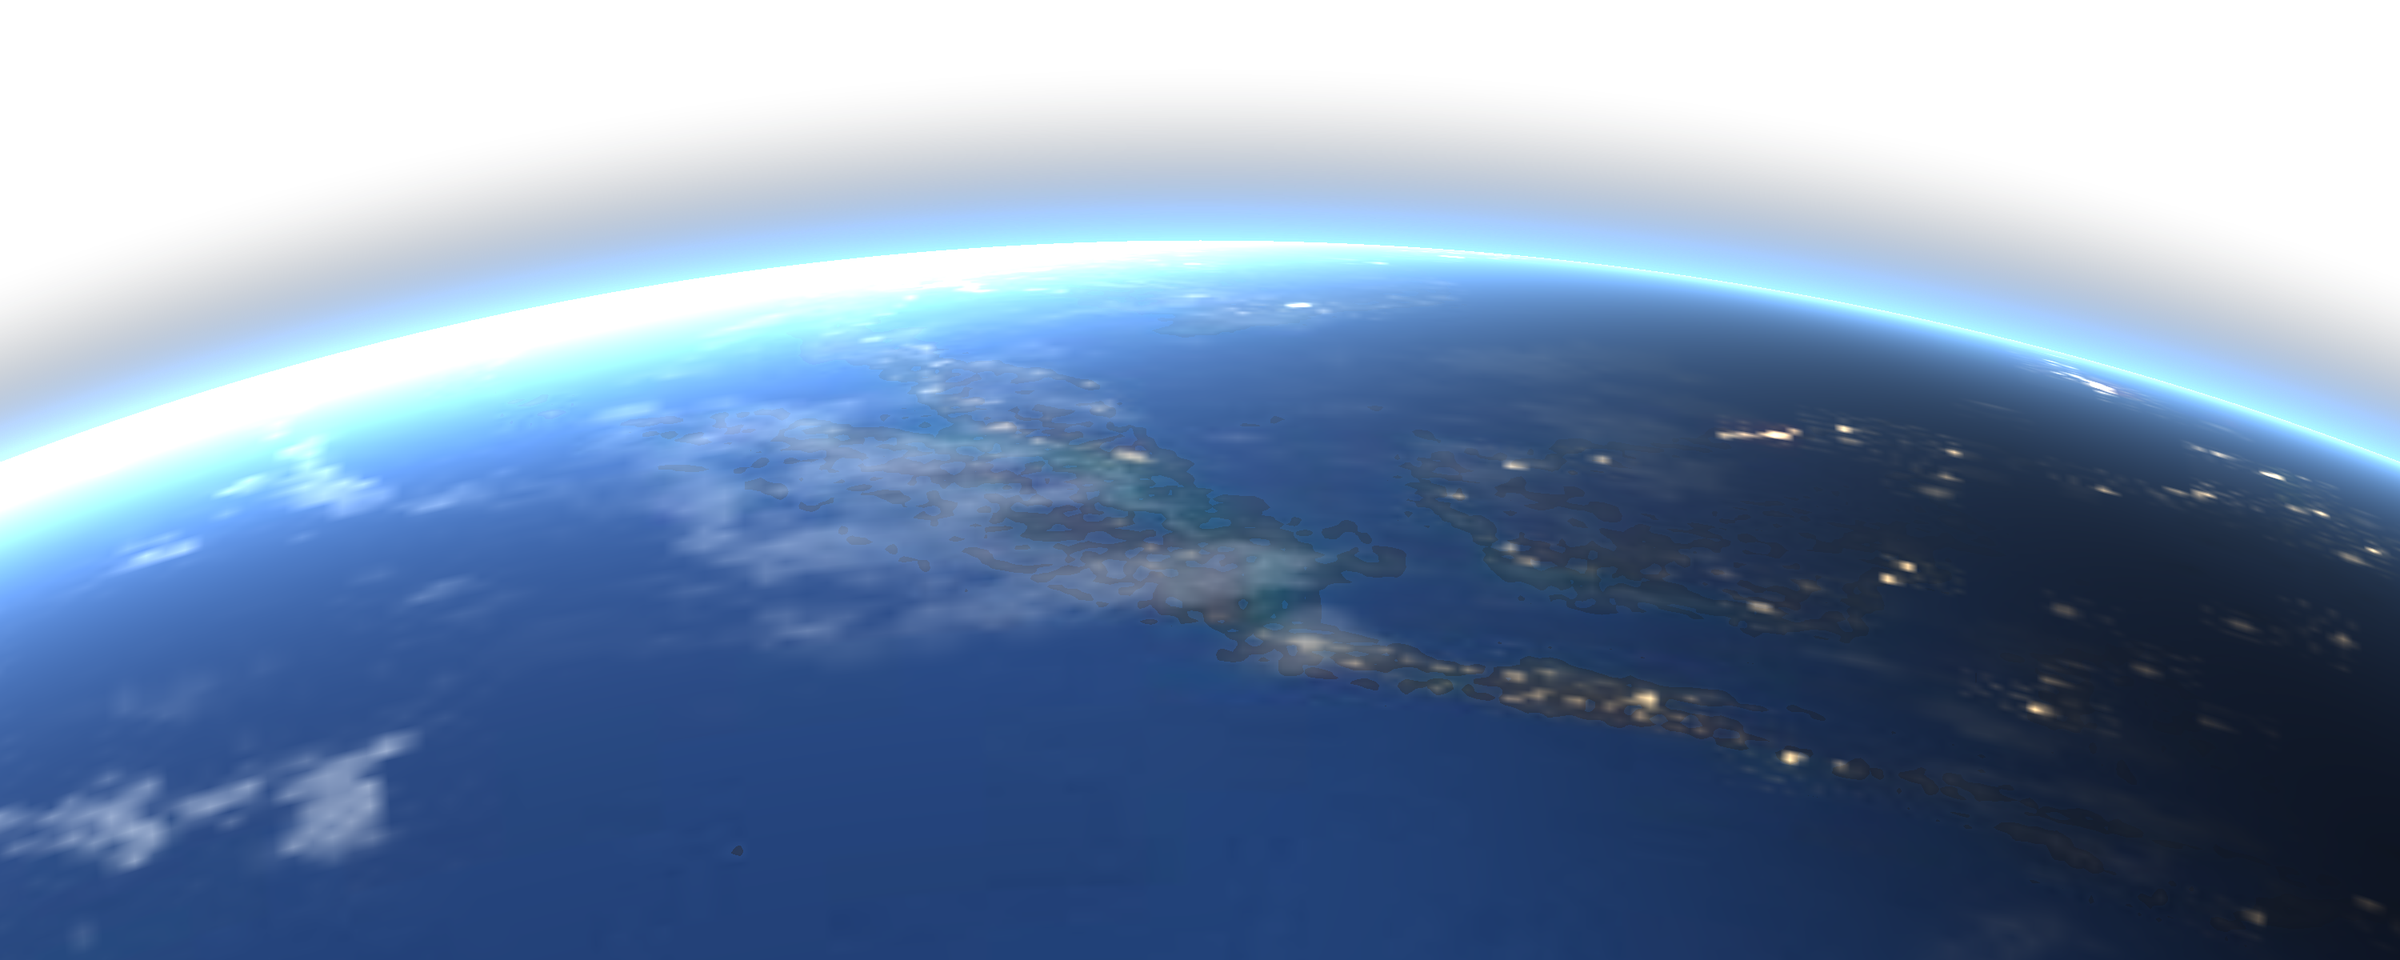
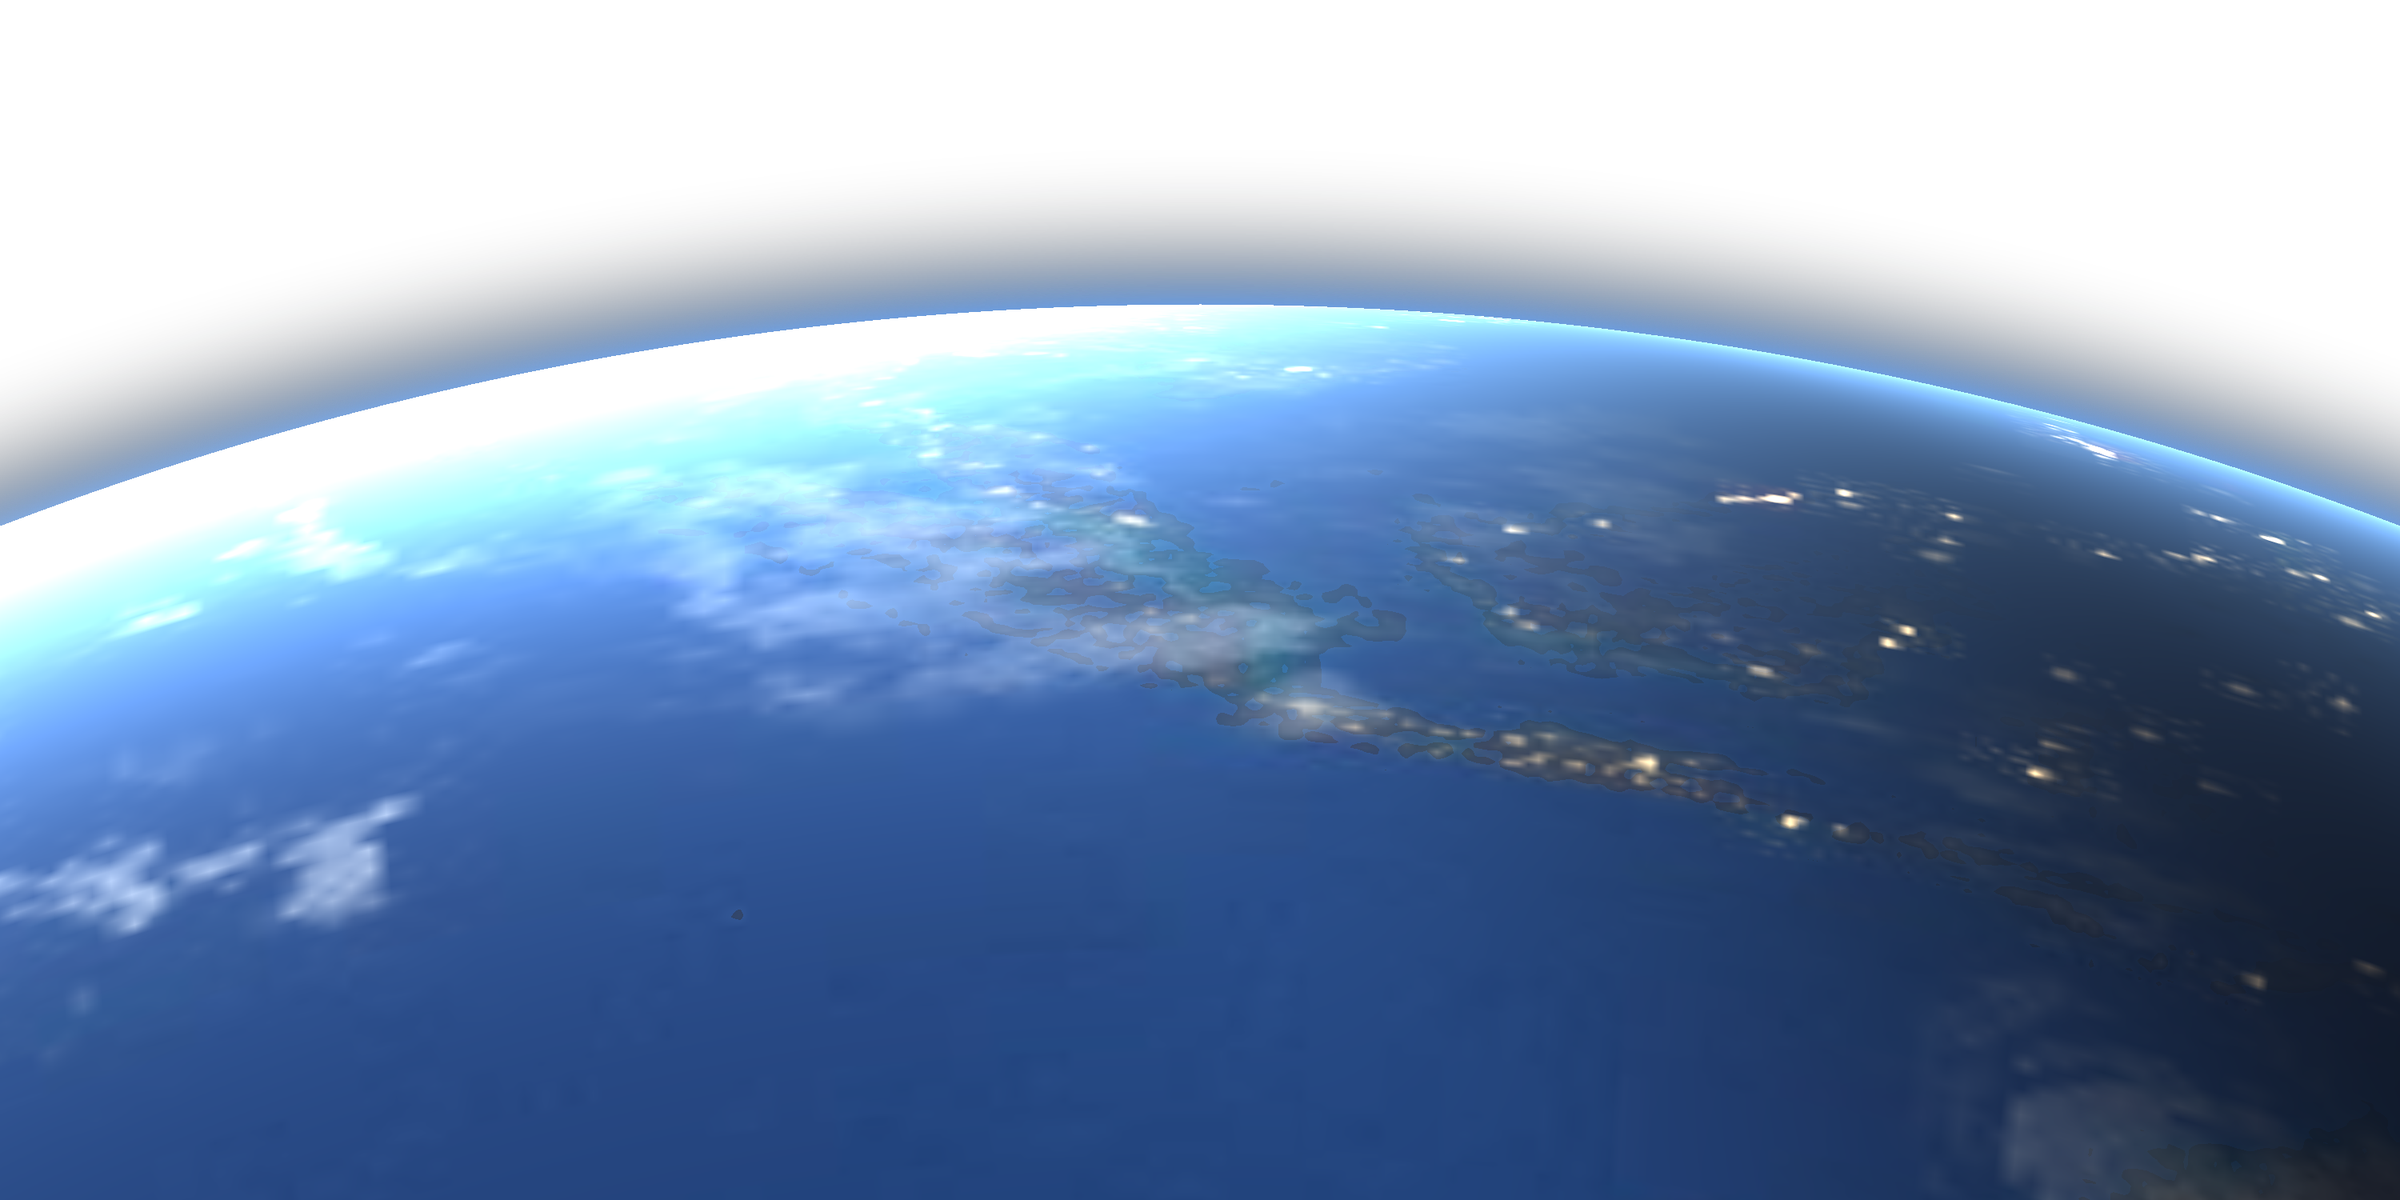
Sync: Earth pulled up, rim integrated, grahas across the sky

diff --git a/src/next.js b/src/next.js
@@ -56,7 +56,8 @@ const lerp = (a,b,k) => a+(b-a)*k;
      nothing there to see — so they carry no orbit and begin outside the frame
      entirely, arriving only when the chart calls for them. */
   const RING  = { Moon:0, Mercury:1, Venus:2, Sun:3, Mars:4, Jupiter:5, Saturn:6 };
-  const ANGLE = { Moon:242, Mercury:200, Venus:318, Sun:268, Mars:225, Jupiter:340, Saturn:288 };
+  /* spread right across the frame, not bunched over the horizon */
+  const ANGLE = { Moon:250, Mercury:233, Venus:299, Sun:266, Mars:243, Jupiter:320, Saturn:286 };
   const FROM_OUTSIDE = { Rahu:{ x:-.22, y:.22 }, Ketu:{ x:1.22, y:.16 } };
 
   /* where each graha finally sits: its real house in this chart, sharing the seat
@@ -81,9 +82,11 @@ const lerp = (a,b,k) => a+(b-a)*k;
     disc = Math.max(30, Math.min(W, H) * .062);
     for (const l of lines) l.dataset.px = l.dataset.len * (S / 104);
 
-    ocx = W / 2; ocy = H * 1.02;
-    ringRY = i => H * (.26 + i * .036);
-    ringRX = i => Math.min(ringRY(i) * 2.4, W * .49);
+    /* The orbit centre sits well below the frame and the rings are large, so the
+       seven ride high across the whole sky instead of hugging the horizon. */
+    ocx = W / 2; ocy = H * 1.32;
+    ringRY = i => H * (.50 + i * .085);
+    ringRX = i => Math.min(ringRY(i) * 1.8, W * .54);
 
     orbitsSvg.setAttribute("viewBox", `0 0 ${W} ${H}`);
     orbitsSvg.replaceChildren();
@@ -105,8 +108,8 @@ const lerp = (a,b,k) => a+(b-a)*k;
       return [W * n.x + px * 24, H * n.y + py * 16];
     }
     const i = RING[g];
-    const speed = 1 / (1 + i * .32);
-    const a = (ANGLE[g] + (drift * .3 + t * 24) * speed) * Math.PI / 180;
+    const speed = 1 / (1 + i * .32);          /* the outer ones move slower, as they do */
+    const a = (ANGLE[g] + (drift * .62 + t * 24) * speed) * Math.PI / 180;
     const depth = .4 + i * .12;
     return [ocx + ringRX(i) * Math.cos(a) + px * depth * 28,
             ocy + ringRY(i) * Math.sin(a) + py * depth * 20];

diff --git a/next.css b/next.css
@@ -68,12 +68,12 @@ body.next{ background:var(--light); color:var(--ink-d) }
    atmosphere along the limb taken from globe.js's shader. Drawing it with
    gradients gave a flat blue hill; the light on the edge is the whole point. */
 .earth{ position:absolute; left:50%; bottom:0; transform:translateX(-50%);
-  width:max(100%,1180px); aspect-ratio:2400/960;
+  width:max(100%,1180px); aspect-ratio:2400/1200;
   background:url("assets/earth-limb.png") center bottom/100% 100% no-repeat;
   pointer-events:none; will-change:transform,opacity }
 
 .orbits{ position:absolute; inset:0; width:100%; height:100%; overflow:visible }
-.orbits ellipse{ fill:none; stroke:rgba(190,214,255,.20); stroke-width:1; stroke-dasharray:1 8;
+.orbits ellipse{ fill:none; stroke:rgba(190,214,255,.13); stroke-width:1; stroke-dasharray:1 9;
   stroke-linecap:round; vector-effect:non-scaling-stroke }
 
 /* EVERY word on the hero is light. The page's --ink is near-black navy and
